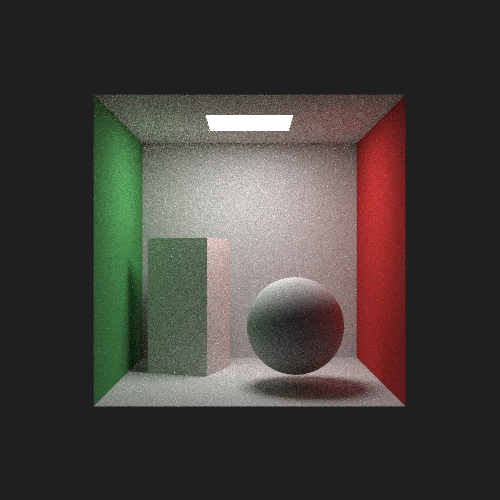
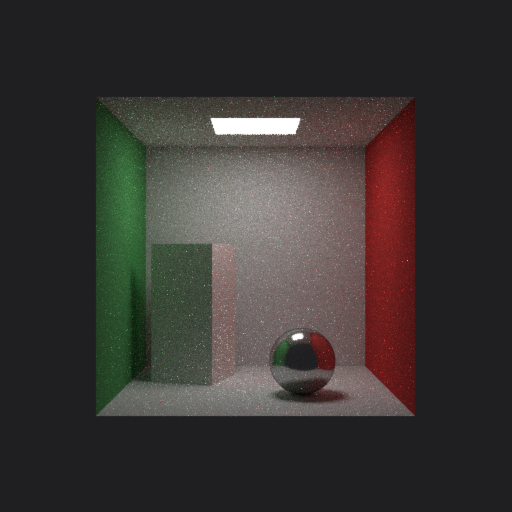
testando configuracoes para o apsso 5

Changed region(s): [[0.18, 0.18, 0.81, 0.84]]

diff --git a/integrators.py b/integrators.py
@@ -11,7 +11,19 @@ from PIL import Image, ImageFilter
 from camera import Camera
 from materials import Material
 from scene import AreaLight, HitRecord, Ray, Scene, build_cornell_box
-from utils import EPSILON, balance_heuristic, clamp, luminance, power_heuristic, ray_color_to_rgb, reflect, vec3
+from utils import (
+    EPSILON,
+    PI,
+    balance_heuristic,
+    clamp,
+    luminance,
+    power_heuristic,
+    random_cosine_direction,
+    ray_color_to_rgb,
+    reflect,
+    to_world,
+    vec3,
+)
 
 
 def _mis_weight(pdf_a: float, pdf_b: float, step: int) -> float:
@@ -103,6 +115,41 @@ def _forced_light_closure(
     return emission * brdf * cos_surface / pdf_light
 
 
+class LightVertex:
+    __slots__ = ["p", "normal", "material", "incoming", "throughput"]
+    def __init__(self, p: glm.vec3, normal: glm.vec3, material: Any, incoming: glm.vec3, throughput: glm.vec3):
+        self.p = p
+        self.normal = normal
+        self.material = material
+        self.incoming = incoming
+        self.throughput = throughput
+
+
+def _sample_light_path(scene: Scene, light: AreaLight, rng: random.Random) -> LightVertex | None:
+    target, light_normal, pdf_area, emission = light.sample(rng)
+    if pdf_area <= 0.0:
+        return None
+    # A radiância inicial leva em conta a área da luz e compensa a amostragem de cosseno da direção
+    throughput = (emission * PI) / pdf_area
+
+    # Amostra uma direção com base em cosseno em relação à normal negativa da luz (apontando para baixo)
+    local_dir = random_cosine_direction(rng)
+    direction = to_world(local_dir, -light_normal)
+
+    ray = Ray(target + -light_normal * EPSILON, direction)
+    hit = scene.hit(ray, EPSILON, float("inf"))
+    if hit is None:
+        return None
+
+    return LightVertex(
+        p=hit.p,
+        normal=hit.normal,
+        material=hit.material,
+        incoming=-direction,
+        throughput=throughput
+    )
+
+
 def _trace_path(
     scene: Scene,
     light: AreaLight,
@@ -110,6 +157,7 @@ def _trace_path(
     rng: random.Random,
     d_max: int,
     step: int,
+    light_vertex: LightVertex | None = None,
 ) -> glm.vec3:
     radiance = vec3(0.0, 0.0, 0.0)
     throughput = vec3(1.0, 1.0, 1.0)
@@ -137,8 +185,23 @@ def _trace_path(
 
         if step >= 3:
             radiance += throughput * _sample_direct_lighting(scene, light, hit, current_ray.direction, rng, step)
-        if step >= 5:
-            radiance += throughput * _bidirectional_probe(scene, light, hit, current_ray.direction, rng)
+
+        if step >= 5 and light_vertex is not None and not hit.material.is_specular() and not light_vertex.material.is_specular():
+            # Conexão bidirecional entre o vértice da câmera `hit` e o vértice da luz `light_vertex`
+            w_conn = light_vertex.p - hit.p
+            dist2 = glm.dot(w_conn, w_conn)
+            if dist2 > 0.0:
+                distance = math.sqrt(dist2)
+                w_conn_normalized = w_conn / distance
+                if _visible(scene, hit.p, light_vertex.p):
+                    cos_camera = max(0.0, glm.dot(hit.normal, w_conn_normalized))
+                    cos_light = max(0.0, glm.dot(light_vertex.normal, -w_conn_normalized))
+                    if cos_camera > 0.0 and cos_light > 0.0:
+                        brdf_camera = hit.material.eval(-current_ray.direction, w_conn_normalized, hit.normal)
+                        brdf_light = light_vertex.material.eval(light_vertex.incoming, -w_conn_normalized, light_vertex.normal)
+                        G = (cos_camera * cos_light) / dist2
+                        connection_radiance = throughput * brdf_camera * G * brdf_light * light_vertex.throughput * 0.5
+                        radiance += connection_radiance
 
         if bounce >= d_max:
             radiance += throughput * _forced_light_closure(scene, light, hit, current_ray.direction, rng)
@@ -176,28 +239,6 @@ def _trace_path(
     return radiance
 
 
-def _bidirectional_probe(
-    scene: Scene,
-    light: AreaLight,
-    hit: HitRecord,
-    incoming: glm.vec3,
-    rng: random.Random,
-) -> glm.vec3:
-    target, light_normal, pdf_area, emission = light.sample(rng)
-    if not _visible(scene, hit.p, target):
-        return vec3(0.0, 0.0, 0.0)
-    direction = glm.normalize(target - hit.p)
-    cos_surface = max(0.0, glm.dot(hit.normal, direction))
-    cos_light = max(0.0, glm.dot(-direction, light_normal))
-    if cos_surface <= 0.0 or cos_light <= 0.0:
-        return vec3(0.0, 0.0, 0.0)
-    pdf_light = light.pdf_from(hit.p, target)
-    pdf_bsdf = hit.material.pdf(-incoming, direction, hit.normal)
-    weight = _mis_weight(pdf_light, pdf_bsdf, 6)
-    brdf = hit.material.eval(-incoming, direction, hit.normal)
-    return emission * brdf * cos_surface * weight / max(pdf_light, 1e-8)
-
-
 def _render(
     scene: Scene,
     light: AreaLight,
@@ -230,7 +271,8 @@ def _render(
                 u = (i + rng.random()) / max(1, width - 1)
                 v = (j + rng.random()) / max(1, height - 1)
                 ray = camera.get_ray(u, v)
-                color += _trace_path(scene, light, ray, rng, d_max=d_max, step=step)
+                light_vertex = _sample_light_path(scene, light, rng) if step >= 5 else None
+                color += _trace_path(scene, light, ray, rng, d_max=d_max, step=step, light_vertex=light_vertex)
             pixels.append(ray_color_to_rgb(color, spp))
 
     sys.stdout.write("\rRender 100% (concluído)\n")
@@ -239,13 +281,13 @@ def _render(
     image = Image.new("RGB", (width, height))
     image.putdata(pixels)
     if use_filter:
-        image = image.filter(ImageFilter.GaussianBlur(radius=1.0))
+        image = image.filter(ImageFilter.GaussianBlur(radius=0.4))
     return image
 
 
 def render_step(step: int, width: int, height: int, spp: int, d_max: int, use_filter: bool) -> Image.Image:
     scene, light, _ = build_cornell_box(render_step=step)
-    render_spp = min(spp, 32) if step == 5 else spp
+    render_spp = spp
     return _render(scene, light, width, height, render_spp, d_max, step, use_filter)
 
 

diff --git a/materials.py b/materials.py
@@ -32,19 +32,49 @@ class BsdfSample:
 
 
 class Material:
+    def __init__(
+        self,
+        color: glm.vec3 | None = None,
+        specular: float = 0.0,
+        shininess: float = 0.0,
+        reflectivity: float = 0.0,
+    ) -> None:
+        if color is not None:
+            self._roughness = math.sqrt(2.0 / (shininess + 2.0)) if shininess > 0.0 else 1.0
+            self._metallic = reflectivity
+            self._microfacet = MicrofacetMaterial(
+                base_color=color,
+                metallic=self._metallic,
+                roughness=self._roughness,
+            )
+        else:
+            self._microfacet = None
+
     def emitted(self, hit: HitRecord, outgoing: glm.vec3) -> glm.vec3:
         return vec3(0.0, 0.0, 0.0)
 
     def sample(self, incoming: glm.vec3, normal: glm.vec3, rng: random.Random) -> BsdfSample:
+        microfacet = getattr(self, "_microfacet", None)
+        if microfacet is not None:
+            return microfacet.sample(incoming, normal, rng)
         raise NotImplementedError
 
     def eval(self, incoming: glm.vec3, outgoing: glm.vec3, normal: glm.vec3) -> glm.vec3:
+        microfacet = getattr(self, "_microfacet", None)
+        if microfacet is not None:
+            return microfacet.eval(incoming, outgoing, normal)
         raise NotImplementedError
 
     def pdf(self, incoming: glm.vec3, outgoing: glm.vec3, normal: glm.vec3) -> float:
+        microfacet = getattr(self, "_microfacet", None)
+        if microfacet is not None:
+            return microfacet.pdf(incoming, outgoing, normal)
         raise NotImplementedError
 
     def is_specular(self) -> bool:
+        microfacet = getattr(self, "_microfacet", None)
+        if microfacet is not None:
+            return microfacet.is_specular()
         return False
 
 

diff --git a/main.py b/main.py
@@ -13,13 +13,14 @@ OUTPUT_FILENAMES = {
     "3.1": "passo3_1_teste_mis_microfacets.png",
     "4": "passo4_microfacets.png",
     "5": "passo5_bdpt.png",
+    "5.1": "passo5_1_realista.png",
     "6": "passo6_luz_infinita_teste.png",
 }
 
 
 def parse_args() -> argparse.Namespace:
     parser = argparse.ArgumentParser(description="Motor de Renderização Path Tracing (Cornell Box)")
-    parser.add_argument("--step", type=str, choices=["1", "2", "3", "3.1", "4", "5", "6"], default=None)
+    parser.add_argument("--step", type=str, choices=["1", "2", "3", "3.1", "4", "5", "5.1", "6"], default=None)
     parser.add_argument("--width", type=int, default=512)
     parser.add_argument("--height", type=int, default=512)
     parser.add_argument("--spp", type=int, default=25)
@@ -36,13 +37,14 @@ def main() -> None:
     steps = [args.step] if args.step else ["1", "2", "3", "4", "5", "6"]
     for step in steps:
         print(f"A executar o Passo {step}...")
-        render_spp = 64 if step == "3.1" else args.spp
-        render_d_max = 4 if step == "3.1" else args.d_max
+        render_spp = 64 if step == "3.1" else (128 if step == "5.1" else args.spp)
+        render_d_max = 4 if step == "3.1" else (6 if step == "5.1" else args.d_max)
+        render_use_filter = True if step == "5.1" else args.use_filter
         if step == "6":
             render_spp = max(render_spp, 96)
             render_d_max = max(render_d_max, 6)
-        render_step_id = 3 if step == "3.1" else int(step)
-        image = render_step(render_step_id, args.width, args.height, render_spp, render_d_max, args.use_filter)
+        render_step_id = 3 if step == "3.1" else (5 if step == "5.1" else int(step))
+        image = render_step(render_step_id, args.width, args.height, render_spp, render_d_max, render_use_filter)
         target = output_dir / OUTPUT_FILENAMES[step]
         image.save(target)
         print(f"Imagem guardada em {target}")

diff --git a/scene.py b/scene.py
@@ -244,7 +244,7 @@ class AreaLight:
 
 
 def build_cornell_box(use_infinite_light: bool = False, render_step: int | None = None) -> tuple[Scene, AreaLight, list[Hittable]]:
-    from materials import EmissiveMaterial, LambertianMaterial, MicrofacetMaterial
+    from materials import EmissiveMaterial, LambertianMaterial, Material, MicrofacetMaterial, MirrorMaterial
 
     white = LambertianMaterial(vec3(0.73, 0.73, 0.73))
     red = LambertianMaterial(vec3(0.65, 0.05, 0.05))
@@ -263,13 +263,14 @@ def build_cornell_box(use_infinite_light: bool = False, render_step: int | None 
     area_light = AreaLight(quad=light_quad, emission=vec3(15.0, 15.0, 15.0))
 
     if render_step == 5:
-        sphere_material = LambertianMaterial(vec3(0.72, 0.72, 0.72))
-        sphere_radius = 0.18
+        sphere_material = Material(color=glm.vec3(0.9, 0.9, 0.9), specular=0.9,
+                                   shininess=100.0, reflectivity=0.95)
+        sphere_radius = 0.12
     else:
         sphere_material = metal_plastic
         sphere_radius = 0.22
 
-    sphere = Sphere(vec3(0.33, 0.22, 0.35), sphere_radius, sphere_material)
+    sphere = Sphere(vec3(0.33, sphere_radius, 0.35), sphere_radius, sphere_material)
     local_box = Box(vec3(-0.13, 0.0, -0.135), vec3(0.13, 0.55, 0.135), plastic)
     box = Translated(RotateY(local_box, 18.0), vec3(0.75, 0.0, 0.685))
 